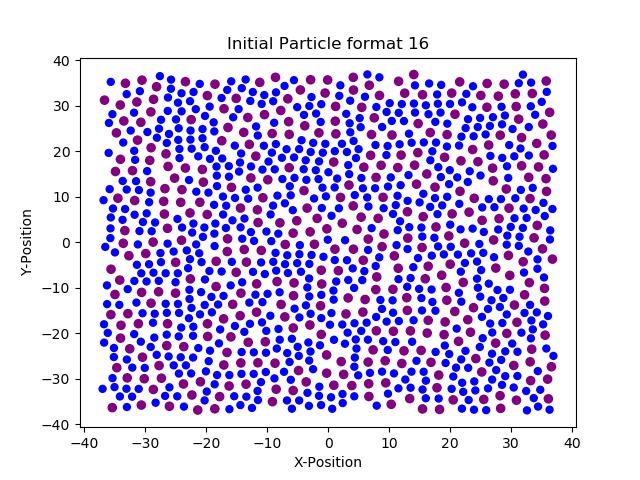
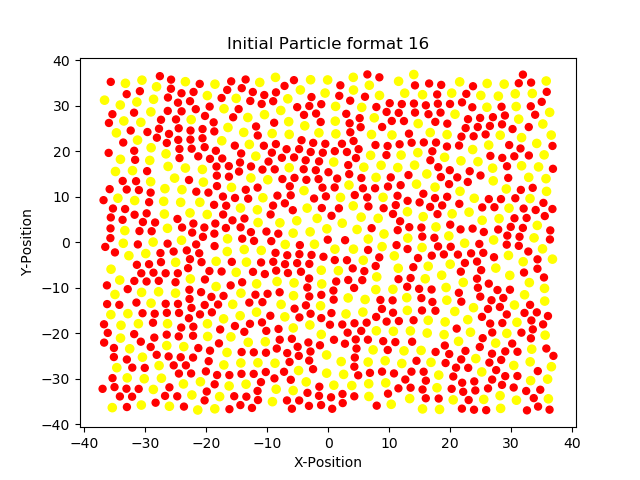
Testing Colors

Changed region(s): [[0.1562, 0.125, 0.875, 0.875]]

diff --git a/Chakraborty/particle.py b/Chakraborty/particle.py
@@ -8,9 +8,9 @@ def graphFrame(particleRadius, particleX, particleZ, counter, cwd):
     color = [];
     for i in range(len(particleRadius)):
         if particleRadius[i] == 1 * 25:
-            color.append("blue");
+            color.append("red");
         elif particleRadius[i] == 1.4 * 25:
-            color.append("purple");
+            color.append("yellow");
         else:
             color.append("black");
     #look into the size variable, plotting circles.
